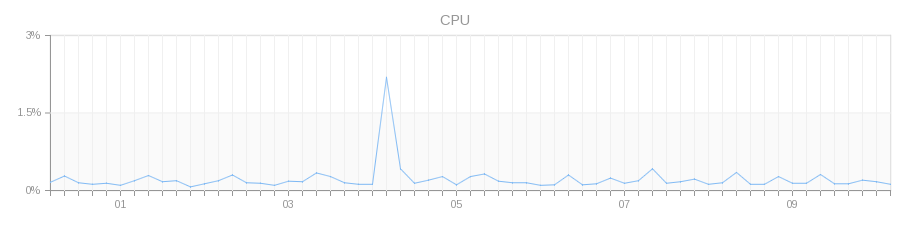
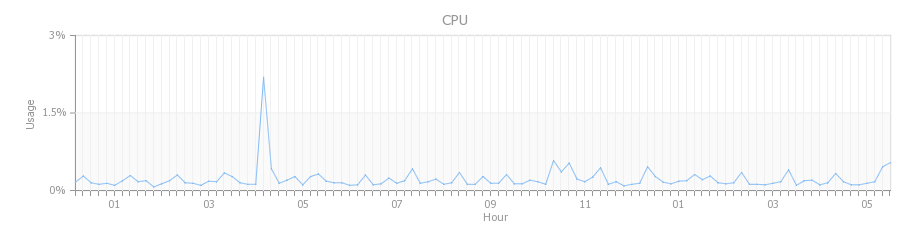
Adding Y and X Axis lables to graphs

diff --git a/scripts/networkbyte_graph.php b/scripts/networkbyte_graph.php
@@ -62,9 +62,10 @@ $next='0';
   $DataSet->AddSerie("Serie1");
   $DataSet->AddSerie("Serie2");
   $DataSet->SetAbsciseLabelSerie("Serie3");
-  $DataSet->SetSerieName("Incoming KB","Serie1");
-  $DataSet->SetSerieName("Outgoing KB","Serie2");
-  #$DataSet->SetYAxisName("MB");
+  $DataSet->SetSerieName("Incoming","Serie1");
+  $DataSet->SetSerieName("Outgoing","Serie2");
+  $DataSet->SetYAxisName("Kilobytes");
+  $DataSet->SetXAxisName("Hour");
   #$DataSet->SetYAxisUnit("%");
   #$DataSet->SetXAxisFormat("date");
 
@@ -73,7 +74,7 @@ $next='0';
   $Test->setColorPalette(0,69,252,69);
   #$Test->setColorPalette(1,126,185,245);
   $Test->setFontProperties("$font",8);
-  $Test->setGraphArea(50,35,890,215);
+  $Test->setGraphArea(75,35,890,215);
   #$Test->drawFilledRoundedRectangle(7,7,450,223,5,240,240,240);
   #$Test->drawRoundedRectangle(5,5,450,225,5,230,230,230);
   $Test->drawGraphArea(255,255,255,FALSE);

diff --git a/scripts/networkkb_graph.php b/scripts/networkkb_graph.php
@@ -62,9 +62,10 @@ $next='0';
   $DataSet->AddSerie("Serie1");
   $DataSet->AddSerie("Serie2");
   $DataSet->SetAbsciseLabelSerie("Serie3");
-  $DataSet->SetSerieName("Incoming KB","Serie1");
-  $DataSet->SetSerieName("Outgoing KB","Serie2");
-  #$DataSet->SetYAxisName("MB");
+  $DataSet->SetSerieName("Incoming","Serie1");
+  $DataSet->SetSerieName("Outgoing","Serie2");
+  $DataSet->SetYAxisName("Kilobytes");
+  $DataSet->SetXAxisName("Hour");
   #$DataSet->SetYAxisUnit("%");
   #$DataSet->SetXAxisFormat("date");
 
@@ -73,7 +74,7 @@ $next='0';
   $Test->setColorPalette(0,69,252,69);
   #$Test->setColorPalette(1,126,185,245);
   $Test->setFontProperties("$font",8);
-  $Test->setGraphArea(50,35,890,215);
+  $Test->setGraphArea(75,35,890,215);
   #$Test->drawFilledRoundedRectangle(7,7,450,223,5,240,240,240);
   #$Test->drawRoundedRectangle(5,5,450,225,5,230,230,230);
   $Test->drawGraphArea(255,255,255,FALSE);

diff --git a/htdocs/index.php b/htdocs/index.php
@@ -31,11 +31,9 @@ include "includes/banner.php";
 
 		 <a href='history.php?type=cpu'><img border=0 src=graphs/cpu-current.jpg></a>
 		 <br>
-		 <a href='history.php?type=memory'><img border=0 src=graphs/memory-current.jpg></a>
-		 <a href='history.php?type=swap'><img border=0 src=graphs/swap-current.jpg></a>
+		 <a href='history.php?type=memory'><img border=0 src=graphs/memory-current.jpg></a><a href='history.php?type=swap'><img border=0 src=graphs/swap-current.jpg></a>
 		 <br>
-		 <a href='history.php?type=io'><img border=0 src=graphs/io-current.jpg></a>
-		 <a href='history.php?type=load'><img border=0 src=graphs/load-current.jpg></a>
+		 <a href='history.php?type=io'><img border=0 src=graphs/io-current.jpg></a><a href='history.php?type=load'><img border=0 src=graphs/load-current.jpg></a>
 		 <br>
 		 <a href='history.php?type=network'><img border=0 src=graphs/network-current.jpg></a>
 

diff --git a/scripts/cpu_graph.php b/scripts/cpu_graph.php
@@ -54,8 +54,8 @@ $next='0';
   $DataSet->AddPoint($xdata,"Serie3");
   $DataSet->AddSerie("Serie1");
   $DataSet->SetAbsciseLabelSerie("Serie3");
-  $DataSet->SetSerieName("Incoming","Serie1");
-  #$DataSet->SetYAxisName("Call duration");
+  $DataSet->SetYAxisName("Usage");
+  $DataSet->SetXAxisName("Hour");
   $DataSet->SetYAxisUnit("%");
   #$DataSet->SetXAxisFormat("date");
 
@@ -63,7 +63,7 @@ $next='0';
   $Test = new pChart(900,225);
   $Test->setColorPalette(0,126,185,245);
   $Test->setFontProperties("$font",8);
-  $Test->setGraphArea(50,35,890,190);
+  $Test->setGraphArea(75,35,890,190);
   #$Test->drawFilledRoundedRectangle(7,7,450,223,5,240,240,240);
   #$Test->drawRoundedRectangle(5,5,450,225,5,230,230,230);
   $Test->drawGraphArea(255,255,255,FALSE);

diff --git a/scripts/load_graph.php b/scripts/load_graph.php
@@ -54,8 +54,8 @@ $next='0';
   $DataSet->AddPoint($xdata,"Serie3");
   $DataSet->AddSerie("Serie1");
   $DataSet->SetAbsciseLabelSerie("Serie3");
-  $DataSet->SetSerieName("Incoming","Serie1");
-  #$DataSet->SetYAxisName("MB");
+  $DataSet->SetYAxisName("1 Min Average");
+  $DataSet->SetXAxisName("Hour");
   #$DataSet->SetYAxisUnit("%");
   #$DataSet->SetXAxisFormat("date");
 
@@ -63,7 +63,7 @@ $next='0';
   $Test = new pChart(450,225);
   $Test->setColorPalette(0,255,184,55);
   $Test->setFontProperties("$font",8);
-  $Test->setGraphArea(50,35,440,190);
+  $Test->setGraphArea(75,35,440,190);
   #$Test->drawFilledRoundedRectangle(7,7,450,223,5,240,240,240);
   #$Test->drawRoundedRectangle(5,5,450,225,5,230,230,230);
   $Test->drawGraphArea(255,255,255,FALSE);

diff --git a/scripts/io_graph.php b/scripts/io_graph.php
@@ -54,8 +54,8 @@ $next='0';
   $DataSet->AddPoint($xdata,"Serie3");
   $DataSet->AddSerie("Serie1");
   $DataSet->SetAbsciseLabelSerie("Serie3");
-  $DataSet->SetSerieName("Incoming","Serie1");
-  #$DataSet->SetYAxisName("MB");
+  $DataSet->SetYAxisName("IOwait %");
+  $DataSet->SetXAxisName("Hour");
   $DataSet->SetYAxisUnit("%");
   #$DataSet->SetXAxisFormat("date");
 
@@ -63,7 +63,7 @@ $next='0';
   $Test = new pChart(450,225);
   $Test->setColorPalette(0,255,44,44);
   $Test->setFontProperties("$font",8);
-  $Test->setGraphArea(50,35,440,190);
+  $Test->setGraphArea(75,35,440,190);
   #$Test->drawFilledRoundedRectangle(7,7,450,223,5,240,240,240);
   #$Test->drawRoundedRectangle(5,5,450,225,5,230,230,230);
   $Test->drawGraphArea(255,255,255,FALSE);

diff --git a/scripts/swap_graph.php b/scripts/swap_graph.php
@@ -54,8 +54,8 @@ $next='0';
   $DataSet->AddPoint($xdata,"Serie3");
   $DataSet->AddSerie("Serie1");
   $DataSet->SetAbsciseLabelSerie("Serie3");
-  $DataSet->SetSerieName("Incoming","Serie1");
-  #$DataSet->SetYAxisName("MB");
+  $DataSet->SetYAxisName("Used");
+  $DataSet->SetXAxisName("Hour");
   $DataSet->SetYAxisUnit("%");
   #$DataSet->SetXAxisFormat("date");
 
@@ -63,7 +63,7 @@ $next='0';
   $Test = new pChart(450,225);
   $Test->setColorPalette(0,201,127,246);
   $Test->setFontProperties("$font",8);
-  $Test->setGraphArea(50,35,440,190);
+  $Test->setGraphArea(75,35,440,190);
   #$Test->drawFilledRoundedRectangle(7,7,450,223,5,240,240,240);
   #$Test->drawRoundedRectangle(5,5,450,225,5,230,230,230);
   $Test->drawGraphArea(255,255,255,FALSE);

diff --git a/scripts/memory_graph.php b/scripts/memory_graph.php
@@ -62,8 +62,8 @@ $next='0';
   $DataSet->AddPoint($xdata,"Serie3");
   $DataSet->AddSerie("Serie1");
   $DataSet->SetAbsciseLabelSerie("Serie3");
-  $DataSet->SetSerieName("Incoming","Serie1");
-  #$DataSet->SetYAxisName("MB");
+  $DataSet->SetYAxisName("Used");
+  $DataSet->SetXAxisName("Hour");
   $DataSet->SetYAxisUnit("%");
   #$DataSet->SetXAxisFormat("date");
 
@@ -71,7 +71,7 @@ $next='0';
   $Test = new pChart(450,225);
   $Test->setColorPalette(0,69,252,69);
   $Test->setFontProperties("$font",8);
-  $Test->setGraphArea(50,35,440,190);
+  $Test->setGraphArea(75,35,440,190);
   #$Test->drawFilledRoundedRectangle(7,7,450,223,5,240,240,240);
   #$Test->drawRoundedRectangle(5,5,450,225,5,230,230,230);
   $Test->drawGraphArea(255,255,255,FALSE);
